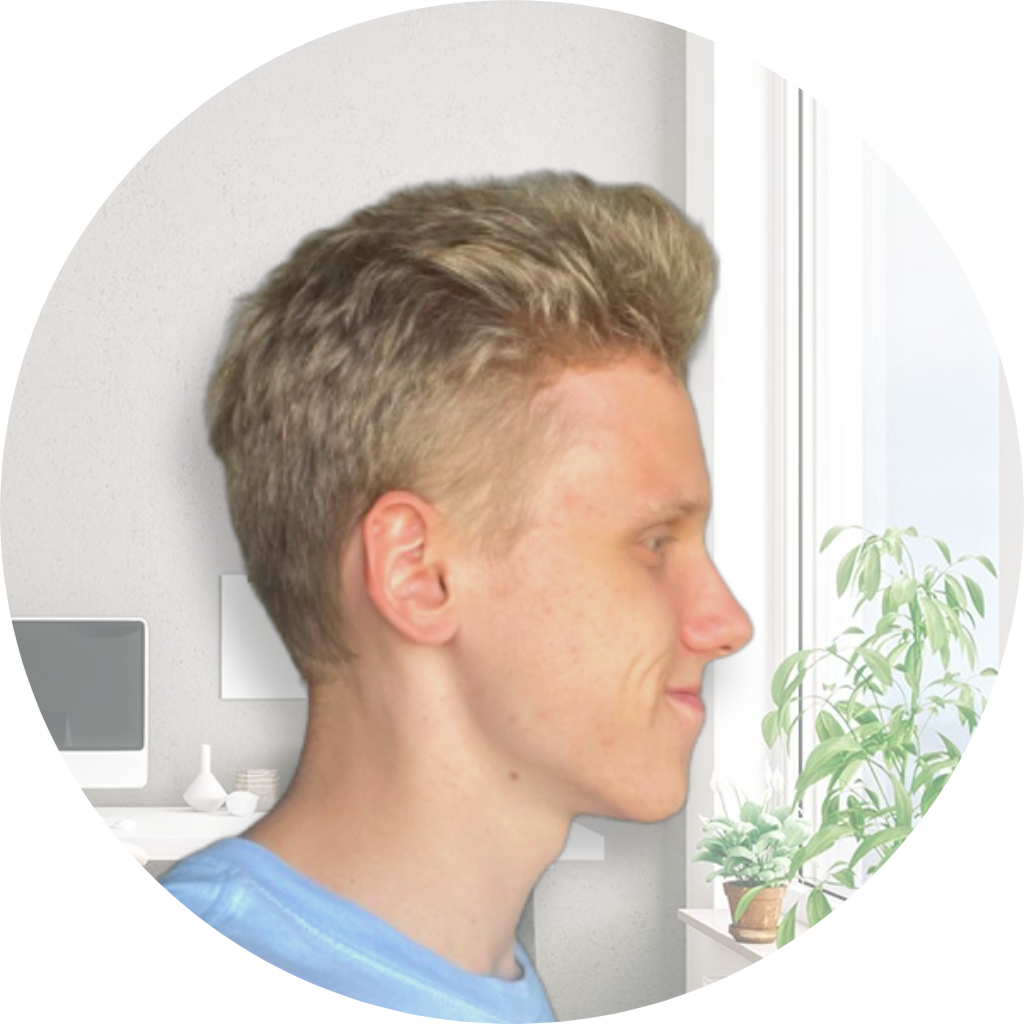
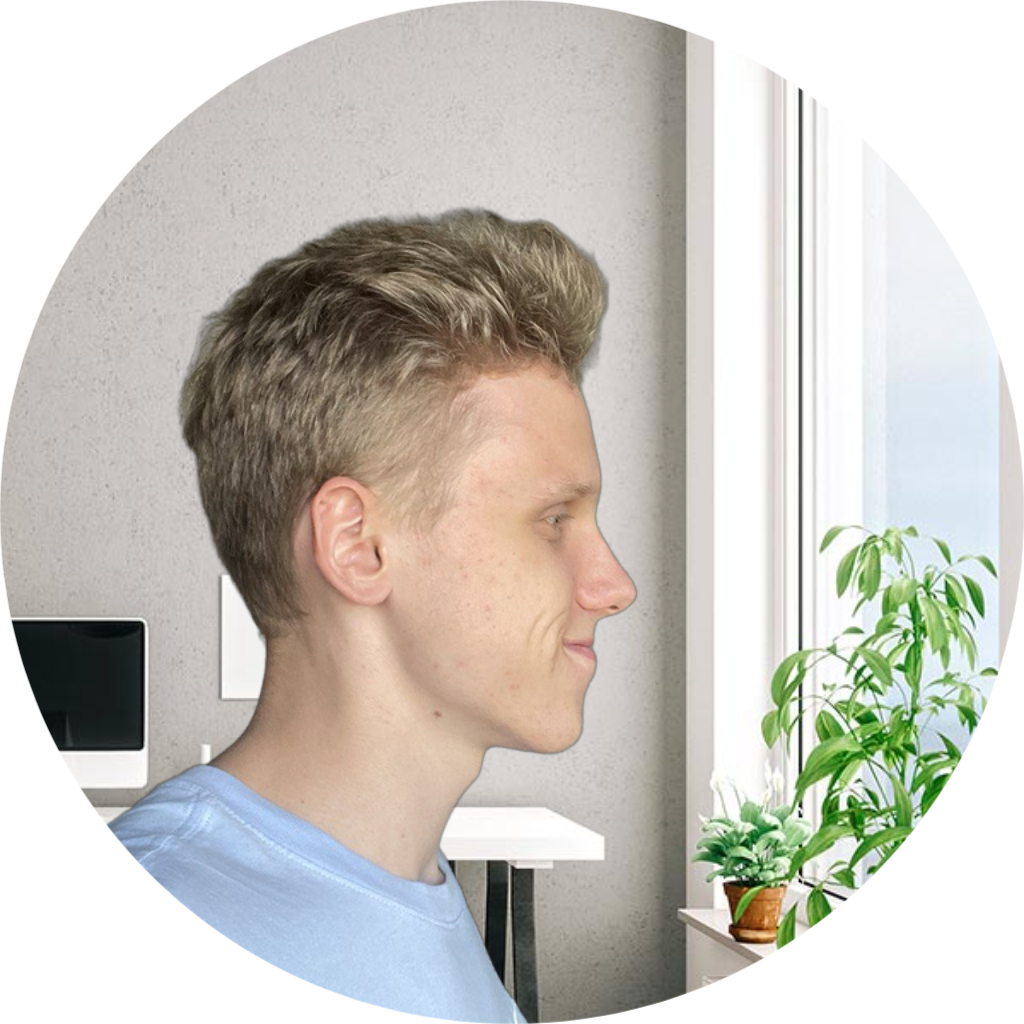
FEAT. Changed an animation appearance a bit. Added profile image in navbar, removed big image from mobile

diff --git a/Desktop/PORTFOLIO/portfolio/components/BackgroundAnimation/BackgroundAnimation.tsx b/Desktop/PORTFOLIO/portfolio/components/BackgroundAnimation/BackgroundAnimation.tsx
@@ -3,17 +3,19 @@
 import React, { useRef, useEffect } from 'react';
 import styles from './BackgroundAnimation.module.scss';
 
-// --- The analogous color palette ---
+// --- Subtle color palette ---
 const analogousPalette = [
-  'rgba(123, 0, 255, 0.4)', // Primary accent purple
-  'rgba(80, 80, 255, 0.6)',   // Vibrant blue-purple
-  'rgba(0, 0, 150, 0.5)',    // Deep, calming blue
-  'rgba(200, 50, 200, 0.5)', // Soft, warm pink-purple
-  'rgba(255, 150, 255, 0.2)'     // Light, airy pink
+  'rgba(123, 0, 255, 0.15)',
+  'rgba(80, 80, 255, 0.2)',
+  'rgba(0, 0, 150, 0.15)',
+  'rgba(200, 50, 200, 0.15)',
+  'rgba(255, 150, 255, 0.1)'
 ];
 
 const BackgroundAnimation = () => {
   const canvasRef = useRef<HTMLCanvasElement | null>(null);
+  const scrollY = useRef(0);
+  const mouse = useRef({ x: -200, y: -200 });
 
   useEffect(() => {
     const canvas = canvasRef.current;
@@ -23,119 +25,128 @@ const BackgroundAnimation = () => {
     if (!ctx) return;
 
     let animationFrameId: number;
-    let squares: Square[] = [];
-    const mouse = { x: -200, y: -200 };
+    let stacks: SquareStack[] = [];
+    const SQUARE_SIZE = 10;
+    const GAP = 2;
 
-    // --- Square Class ---
-    class Square {
+    // --- Handles scroll for parallax effect ---
+    const handleScroll = () => {
+      scrollY.current = window.scrollY;
+    };
+    window.addEventListener('scroll', handleScroll, { passive: true });
+    
+    // --- Mouse move listener for interactivity ---
+    const handleMouseMove = (e: MouseEvent) => {
+        mouse.current.x = e.clientX;
+        mouse.current.y = e.clientY;
+    };
+    window.addEventListener('mousemove', handleMouseMove);
+
+    // --- SquareStack Class ---
+    class SquareStack {
       x: number;
       y: number;
-      size: number;
-      angle: number;
-      vx: number; // x velocity
-      vy: number; // y velocity
-      rotationSpeed: number;
-      color: string;
-      hasBorder: boolean;
+      vy: number; // Only vertical velocity
+      squares: { yOffset: number; color: string }[] = [];
+      stackHeight: number;
 
-      constructor() {
-        this.size = Math.random() * 10 + 10;
+      constructor(initialX?: number, initialY?: number) {
+        this.x = initialX ?? Math.random() * window.innerWidth;
+        const stackCount = Math.floor(Math.random() * 4) + 1; // 1 to 4 squares
+        
+        this.stackHeight = stackCount * SQUARE_SIZE + (stackCount - 1) * GAP;
+        this.y = initialY ?? window.innerHeight + this.stackHeight + Math.random() * 200;
+
+        for (let i = 0; i < stackCount; i++) {
+          this.squares.push({
+            yOffset: i * (SQUARE_SIZE + GAP),
+            color: analogousPalette[Math.floor(Math.random() * analogousPalette.length)],
+          });
+        }
+        
+        this.vy = -(Math.random() * 0.1 + 0.1); // Slow upward velocity
+      }
+
+      reset() {
+        this.y = window.innerHeight + this.stackHeight;
         this.x = Math.random() * window.innerWidth;
-        this.y = Math.random() * window.innerHeight;
-        this.angle = Math.random() * 360;
-        this.vx = (Math.random() - 0.5) * 0.5; // slow horizontal drift
-        this.vy = -(Math.random() * 0.2 + 0.3); // upward velocity
-        this.rotationSpeed = (Math.random() - 0.5) * 0.5;
-        
-        // Randomly select a color from the palette
-        this.color = analogousPalette[Math.floor(Math.random() * analogousPalette.length)];
-        
-        this.hasBorder = Math.random() > 0.5;
       }
 
       update() {
-        this.x += this.vx;
-        this.y += this.vy;
-        this.angle += this.rotationSpeed;
+        this.y += this.vy - (scrollY.current * 0.4); // Parallax effect applied here
 
-        // Reset square when it goes off-screen
-        if (this.y < -this.size || this.x < -this.size || this.x > window.innerWidth + this.size) {
-            this.y = window.innerHeight + this.size;
-            this.x = Math.random() * window.innerWidth;
-            this.angle = Math.random() * 360;
-            this.vy = -(Math.random() * 0.7 + 0.3);
+        if (this.y < -this.stackHeight) {
+          this.reset();
         }
       }
 
       draw() {
         if (!ctx) return;
-        const dist = Math.hypot(this.x - mouse.x, this.y - mouse.y);
-        const isNear = dist < 80;
-        
-        ctx.save();
-        ctx.translate(this.x, this.y);
 
-        // --- Interactivity Logic ---
-        if (isNear) {
-          ctx.rotate(0); // Straighten the square
-          const scale = 1 + (1 - dist / 150) * 0.3; // Grow bigger when closer
-          ctx.scale(scale, scale);
-        } else {
-          ctx.rotate(this.angle * Math.PI / 180);
-        }
+        this.squares.forEach(square => {
+            const currentSquareX = this.x;
+            const currentSquareY = this.y + square.yOffset;
+            const dist = Math.hypot(currentSquareX - mouse.current.x, currentSquareY - mouse.current.y);
+            const isNear = dist < 50;
 
-        // Draw border only when near, otherwise draw fill + conditional border
-        if (isNear) {
-          ctx.strokeStyle = `rgba(123, 0, 255, 0.5)`;
-          ctx.lineWidth = 1;
-          ctx.strokeRect(-this.size / 2, -this.size / 2, this.size, this.size);
-        } else {
-          ctx.fillStyle = this.color;
-          ctx.fillRect(-this.size / 2, -this.size / 2, this.size, this.size);
-          if (this.hasBorder) {
-            ctx.strokeStyle = `rgba(123, 0, 255, 0.3)`;
-            ctx.lineWidth = 1;
-            ctx.strokeRect(-this.size / 2, -this.size / 2, this.size, this.size);
-          }
-        }
-        ctx.restore();
+            ctx.save();
+            ctx.translate(currentSquareX, currentSquareY);
+            
+            if (isNear) {
+                // Apply outline effect when cursor is close
+                ctx.strokeStyle = `rgba(123, 0, 255, 0.5)`;
+                ctx.lineWidth = 1;
+                ctx.strokeRect(0, 0, SQUARE_SIZE, SQUARE_SIZE);
+            } else {
+                // Draw the simple filled square
+                ctx.fillStyle = square.color;
+                ctx.fillRect(0, 0, SQUARE_SIZE, SQUARE_SIZE);
+            }
+            
+            ctx.restore();
+        });
       }
     }
     
     // --- Animation Setup & Loop ---
     const handleResize = () => {
-        if (!canvas) return;
-        canvas.width = window.innerWidth;
-        canvas.height = window.innerHeight;
-        squares = [];
-        for (let i = 0; i < 10; i++) {
-            squares.push(new Square());
+      if (!canvas || !ctx) return;
+
+      const dpr = window.devicePixelRatio || 1;
+
+      // Set the canvas rendering resolution to match the device's pixel ratio
+      canvas.width = window.innerWidth * dpr;
+      canvas.height = window.innerHeight * dpr;
+
+      // Set the CSS size of the canvas to fill the viewport
+      canvas.style.width = `${window.innerWidth}px`;
+      canvas.style.height = `${window.innerHeight}px`;
+      ctx.setTransform(dpr, 0, 0, dpr, 0, 0);
+        stacks = [];
+        const stackCount = Math.floor(window.innerWidth / 40);
+        for (let i = 0; i < stackCount; i++) {
+            const initialY = Math.random() * (window.innerHeight + 400);
+            stacks.push(new SquareStack(undefined, initialY));
         }
     };
     
     const animate = () => {
       if (!ctx || !canvas) return;
-      ctx.clearRect(0, 0, canvas.width, canvas.height);
-      squares.forEach(square => {
-        square.update();
-        square.draw();
+      // Clear the canvas based on CSS pixels; the context scaling handles the rest.
+      ctx.clearRect(0, 0, window.innerWidth, window.innerHeight);
+      stacks.forEach(stack => {
+        stack.update();
+        stack.draw();
       });
       animationFrameId = requestAnimationFrame(animate);
     };
 
-    const handleMouseMove = (e: MouseEvent) => {
-        mouse.x = e.clientX;
-        mouse.y = e.clientY;
-    };
-
-    window.addEventListener('resize', handleResize);
-    window.addEventListener('mousemove', handleMouseMove);
     handleResize(); // Initial setup
     animate();
 
     // --- Cleanup ---
     return () => {
-      window.removeEventListener('resize', handleResize);
+      window.removeEventListener('scroll', handleScroll);
       window.removeEventListener('mousemove', handleMouseMove);
       cancelAnimationFrame(animationFrameId);
     };

diff --git a/Desktop/PORTFOLIO/portfolio/components/Header/Header.tsx b/Desktop/PORTFOLIO/portfolio/components/Header/Header.tsx
@@ -3,6 +3,7 @@
 import { useState, useEffect } from 'react';
 import Link from 'next/link';
 import styles from './Header.module.scss';
+import Image from 'next/image';
 
 const Header = () => {
   const [isMenuOpen, setIsMenuOpen] = useState(false);
@@ -24,10 +25,18 @@ const Header = () => {
   return (
     <header className={styles.header}>
       <nav className={styles.nav}>
-        <Link href="/" className={styles.logo} onClick={closeMenu}>
-          Taras Kyshkar
-        </Link>
-        
+        <div className={styles.logoContainer}>
+        <Image
+              src="/profile-pic2.jpg"
+              alt="A picture of me, didn't load for some reason, maybe it's a bad haircut..."
+              width={40}
+              height={40}
+              className={styles.profileImage}
+            />
+          <Link href="/" className={styles.logo} onClick={closeMenu}>
+            Taras Kyshkar
+          </Link>
+        </div>
         {/* Desktop Navigation */}
         <div className={styles.desktopNav}>
           <ul className={styles.navList}>

diff --git a/Desktop/PORTFOLIO/portfolio/components/About/About.tsx b/Desktop/PORTFOLIO/portfolio/components/About/About.tsx
@@ -50,9 +50,9 @@ const About = () => {
             ))}
           </div>
         </div>
-        <div className={styles.imageContainer}>
+        <div className={styles.profileContainer}>
           <Image
-            src="/profile-pic2(512).png"
+            src="/profile-pic2.jpg"
             alt="A picture of me, didn't load for some reason, maybe it's a bad haircut..."
             width={200}
             height={200}

diff --git a/Desktop/PORTFOLIO/portfolio/components/Header/Header.module.scss b/Desktop/PORTFOLIO/portfolio/components/Header/Header.module.scss
@@ -37,6 +37,22 @@
   margin: 0 auto;
 }
 
+.logoContainer {
+  display: flex;
+  justify-content: space-between;
+  align-items: center;
+  gap: 1rem;
+}
+
+.profileImage {
+  height: auto;
+  object-fit: cover;
+  max-height: 600px;
+  border-radius: 50%;
+  box-shadow: 0 0 5px 1px #dddddd;
+  z-index: 1;
+}
+
 .logo {
   font-family: var.$font-secondary;
   font-weight: bold;

diff --git a/Desktop/PORTFOLIO/portfolio/components/About/About.module.scss b/Desktop/PORTFOLIO/portfolio/components/About/About.module.scss
@@ -15,6 +15,10 @@
   gap: 5rem; 
 }
 
+.profileContainer {
+  background-color: #dddddd00;
+}
+
 .profileImage {
   width: 60%;
   height: auto;
@@ -64,6 +68,9 @@
   .gridContainer {
     grid-template-columns: 1fr; 
     gap: 3rem;
+  }
+  .profileContainer {
+    display: none;
   }
   .heading {
     font-size: 2.5rem;
